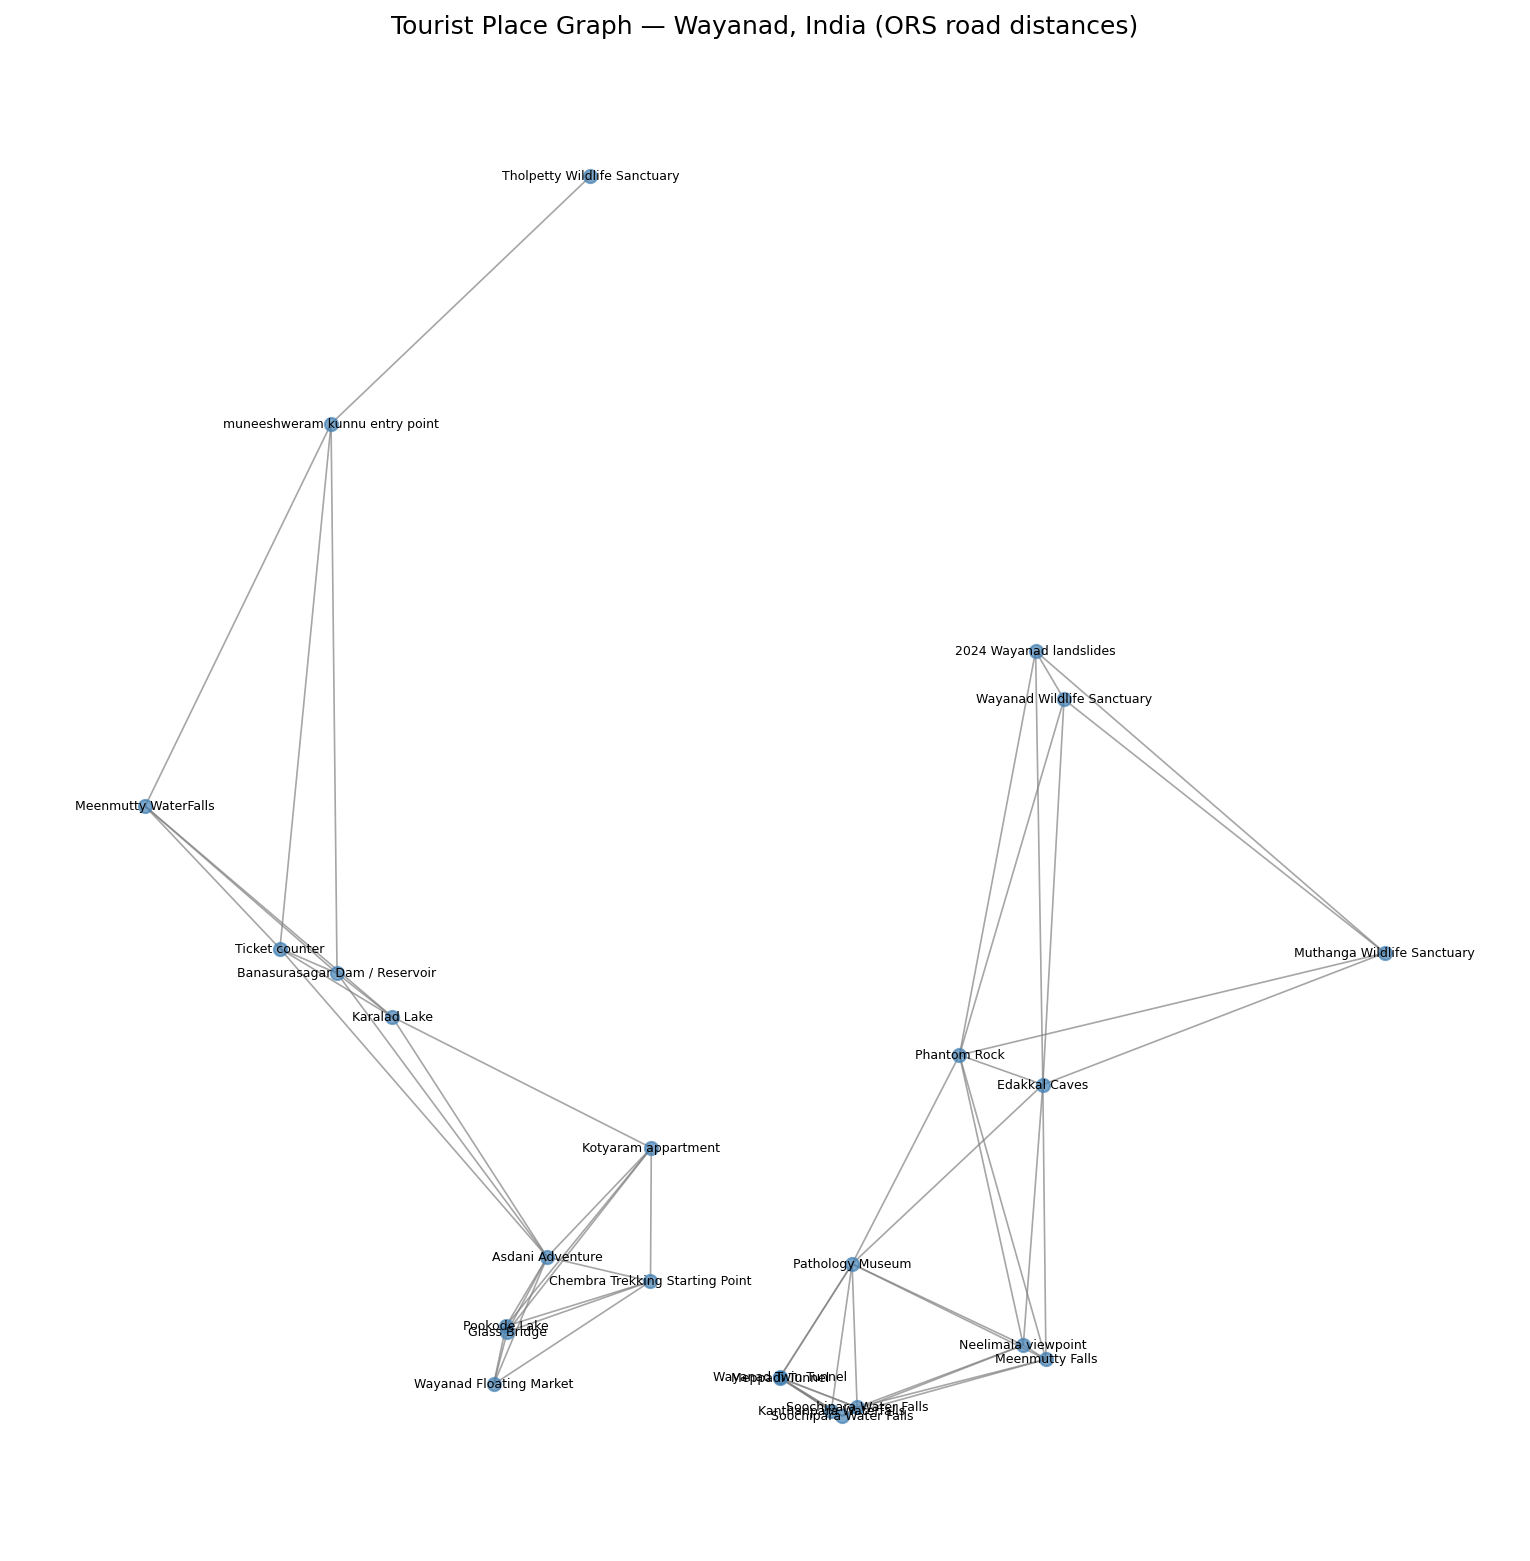
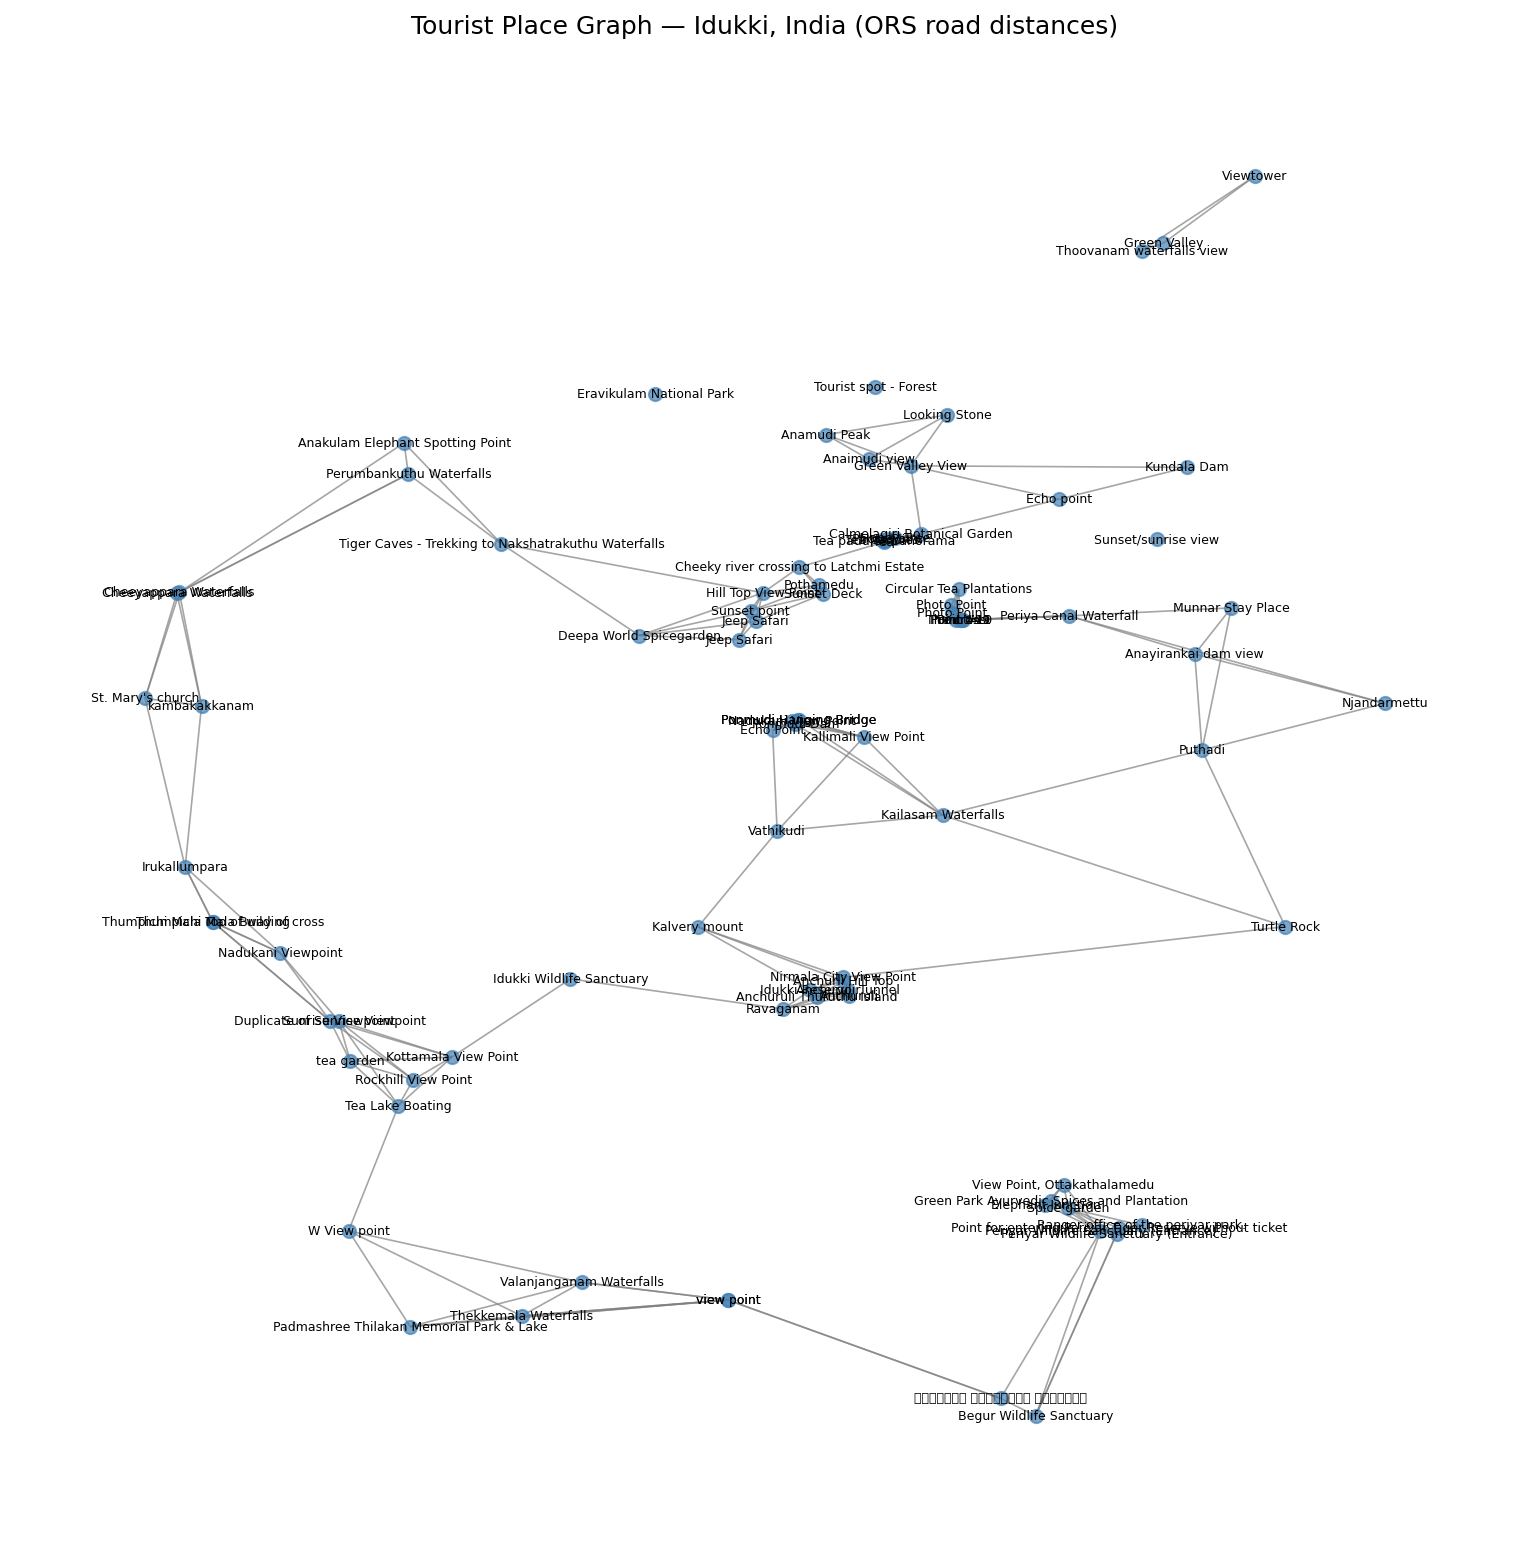
all last try

diff --git a/frontend/src/pages/DayMap.tsx b/frontend/src/pages/DayMap.tsx
@@ -146,14 +146,14 @@ export default function DayMap({ activities, dayNumber, dayLabel }: DayMapProps)
       .finally(() => setLoading(false));
   }, [dayNumber]);
 
-  if (points.length < 2) return null;
+  if (points.length < 1) return null;
 
   return (
     <div className="day-map-wrap">
       {/* Toggle header */}
       <button className="day-map-toggle" onClick={() => setOpen(o => !o)}>
         <MapPin size={13} />
-        <span>Route Map · {points.length} stops</span>
+        <span>{points.length > 1 ? `Route Map · ${points.length} stops` : `Map · ${points.length} stop`}</span>
         {loading && <span className="day-map-loading">fetching route…</span>}
         <ChevronDown size={13} className={`day-map-chevron${open ? ' open' : ''}`} />
       </button>
@@ -177,7 +177,7 @@ export default function DayMap({ activities, dayNumber, dayLabel }: DayMapProps)
             <FitBounds points={points} />
 
             {/* Road route from OSRM */}
-            {routePath && (
+            {routePath && points.length > 1 && (
               <>
                 {/* Casing (dark outline) */}
                 <Polyline
@@ -193,7 +193,7 @@ export default function DayMap({ activities, dayNumber, dayLabel }: DayMapProps)
             )}
 
             {/* Dashed straight-line while loading or on API failure */}
-            {!routePath && (
+            {!routePath && points.length > 1 && (
               <Polyline
                 positions={straightLine}
                 pathOptions={{ color: '#6c8eff', weight: 2, opacity: 0.7, dashArray: '8 6' }}
